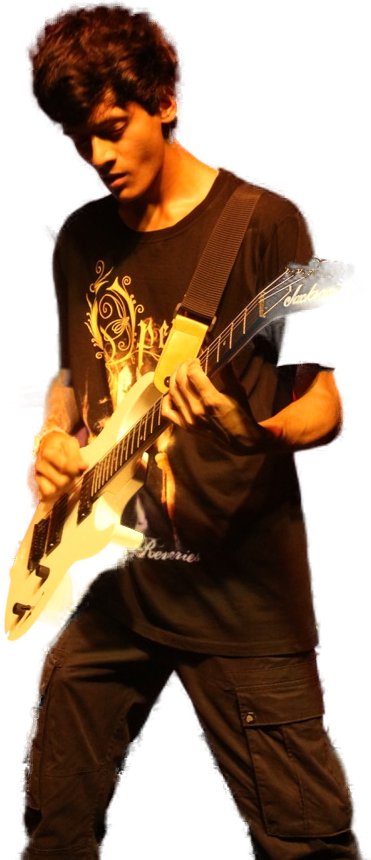
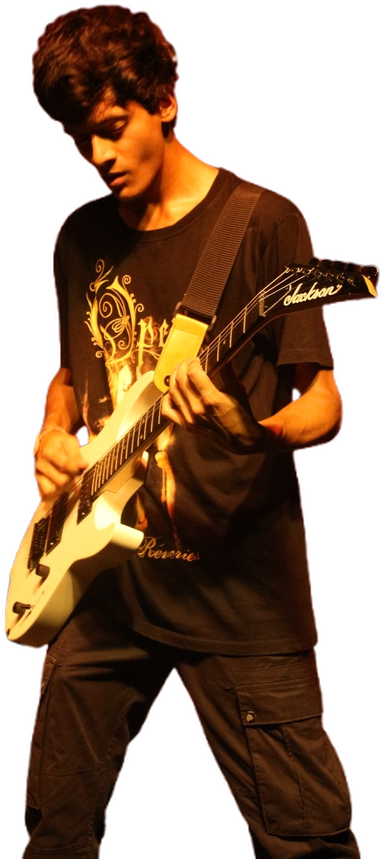
Use the supplied cut-outs, at full resolution, and re-proportion the line-up
The five hand-cut PNGs are much cleaner than the rembg ones, but arrived at
408x612 — roughly half the resolution the line-up needs on a retina display.
Four of them turned out to be exact downscales of photos already in the repo at
724x1086, so rather than use them directly their alpha is upscaled and applied
to the full-resolution original: the supplied mask, no resolution loss.

Partho's didn't match any supplied photo so his is used as given. His also ran
all the way to his feet while everyone else stops at the knee, which made
head-matching scale him to nearly 2x and dominate the row — cropped him to the
top 62% so his framing matches, then rescaled.

Re-measured every scale against the new cut-outs. Mathias, Arnold and Aditya
weren't re-supplied and keep their rembg cut-outs, but their scales moved too
since normalisation is relative.

Two structural fixes fell out of it:

- Slots now clip at the floor. Head-tops land on the slot's top edge, so
  anyone running longer than the others is cut at the floor instead of
  spilling over the name plates.
- Overlap is proportional to each figure's own width instead of a flat
  fraction of --fig. The flat version ate nearly half of a narrow figure like
  Arnold while barely touching a wide one like Harsh with his guitar out.

The new cut-outs include the full guitars, so they're wider — ROW_UNITS went
3.6 -> 4.1 and every figure shrank. Raised the overlap to 0.24 to buy some of
[…]

diff --git a/src/components/HeroLineup.tsx b/src/components/HeroLineup.tsx
@@ -9,18 +9,26 @@ import { useMediaQuery } from "@/hooks/useMediaQuery";
 
 const EASE = [0.16, 1, 0.3, 1] as const;
 
-/** How much of a neighbour each figure overlaps, as a fraction of --fig. */
-const LAP = 0.05;
+/**
+ * How much each figure overlaps the one before it, as a fraction of ITS OWN
+ * width. Proportional rather than a flat fraction of --fig: a flat overlap ate
+ * nearly half of a narrow figure like Arnold while barely touching a wide one
+ * like Harsh with his guitar out.
+ */
+const OVERLAP = 0.24;
+
+/** Each figure's width, in multiples of --fig. */
+const widthOf = (m: (typeof LINEUP)[number]) => m.lineup.scale * m.lineup.aspect;
 
 /**
- * Width of the whole row, in multiples of --fig. Each figure is
- * `--fig × scale` tall and `--fig × scale × aspect` wide, less the overlaps.
- * Derived rather than hardcoded so adding a member or swapping a photo for a
- * wider one can't silently push the end of the line-up off screen.
+ * Width of the whole row in multiples of --fig, so --fig can be capped by
+ * viewport width. Derived rather than hardcoded — adding a member or swapping
+ * in a wider photo can't silently push the end of the line-up off screen.
  */
-const ROW_UNITS =
-  LINEUP.reduce((n, m) => n + m.lineup.scale * m.lineup.aspect, 0) -
-  LAP * (LINEUP.length - 1);
+const ROW_UNITS = LINEUP.reduce(
+  (n, m, i) => n + widthOf(m) * (i === 0 ? 1 : 1 - OVERLAP),
+  0,
+);
 
 export default function HeroLineup() {
   const ref = useRef<HTMLElement>(null);
@@ -133,7 +141,7 @@ export default function HeroLineup() {
           by width as well as height to keep all eight on screen. Below lg the
           row scrolls sideways instead. */}
       <motion.div
-        className="relative z-10 mt-auto flex min-h-0 flex-1 items-end [--fig:36svh] [--lap:0px] sm:[--fig:42svh] lg:[--fig:min(52svh,var(--fig-w))] lg:[--lap:calc(var(--fig)*-0.05)]"
+        className="relative z-10 mt-auto flex min-h-0 flex-1 items-end [--fig:36svh] [--lapf:0] sm:[--fig:42svh] lg:[--fig:min(54svh,var(--fig-w))] lg:[--lapf:0.24]"
         style={{
           y: lineupY,
           opacity: fade,
@@ -164,7 +172,10 @@ export default function HeroLineup() {
                 // group rather than eight separate cut-outs; hovering lifts
                 // that member clear of their neighbours
                 style={{
-                  marginLeft: i === 0 ? undefined : "var(--lap)",
+                  marginLeft:
+                    i === 0
+                      ? undefined
+                      : `calc(var(--fig) * var(--lapf) * ${-widthOf(member)})`,
                   zIndex: lit ? 20 : LINEUP.length - i,
                 }}
                 initial={{ opacity: 0, y: 60 }}
@@ -181,8 +192,12 @@ export default function HeroLineup() {
                 >
                   {/* Fixed-height slot keeps every name plate on one line, while
                       the figure inside is sized and nudged individually. */}
+                  {/* Slot clips at the floor. Head-tops all land on the slot's
+                      top edge (because drop = scale − K), so anyone whose photo
+                      runs past the knee — Partho has feet — is cut off at the
+                      floor instead of spilling over the name plates. */}
                   <span
-                    className="relative block h-[var(--fig)]"
+                    className="relative block h-[var(--fig)] overflow-hidden"
                     style={{ width: `calc(var(--fig) * ${scale * aspect})` }}
                   >
                     {/* accent pool at their feet */}
@@ -217,9 +232,12 @@ export default function HeroLineup() {
                     </span>
                   </span>
 
-                  <span className="pointer-events-none block w-full px-1 pt-3 text-center">
+                  {/* Slots overlap and vary a lot in width, so the plate is set
+                      small and tight enough to sit inside the narrowest of them
+                      (Arnold's) without colliding with its neighbour. */}
+                  <span className="pointer-events-none block w-full px-0.5 pt-3 text-center">
                     <span
-                      className="label block truncate transition-colors duration-400"
+                      className="block truncate font-mono text-[0.5rem] font-medium tracking-[0.12em] uppercase transition-colors duration-400 sm:text-[0.5625rem] sm:tracking-[0.16em]"
                       style={{
                         color: lit
                           ? member.accent

diff --git a/src/data/band.ts b/src/data/band.ts
@@ -168,7 +168,7 @@ export const MEMBERS: Member[] = [
     accent: "#E11D2E",
     photo: "/photos/harsh-roy.jpg",
     cutout: "/cutouts/harsh-roy.png",
-    lineup: { scale: 1.02, drop: 0.03, aspect: 0.5347 },
+    lineup: { scale: 0.94, drop: -0.06, aspect: 0.8266 },
     gallery: [
       "/photos/gallery/harsh-roy/01.jpg",
       "/photos/gallery/harsh-roy/02.jpg",
@@ -210,7 +210,7 @@ export const MEMBERS: Member[] = [
     accent: "#F97316",
     photo: "/photos/partho-roy.jpg",
     cutout: "/cutouts/partho-roy.png",
-    lineup: { scale: 1.03, drop: 0.04, aspect: 0.3517 },
+    lineup: { scale: 1.18, drop: 0.18, aspect: 0.7766 },
     gallery: [
       "/photos/gallery/partho-roy/01.jpg",
       "/photos/gallery/partho-roy/02.jpg",
@@ -251,7 +251,7 @@ export const MEMBERS: Member[] = [
     accent: "#E11D2E",
     photo: "/photos/mathias-oundo.jpg",
     cutout: "/cutouts/mathias-oundo.png",
-    lineup: { scale: 0.93, drop: -0.06, aspect: 0.6629 },
+    lineup: { scale: 0.8, drop: -0.2, aspect: 0.6629 },
     gallery: [
       "/photos/gallery/mathias-oundo/01.jpg",
       "/photos/gallery/mathias-oundo/02.jpg",
@@ -292,7 +292,7 @@ export const MEMBERS: Member[] = [
     accent: "#22C55E",
     photo: "/photos/arnold-singh.jpg",
     cutout: "/cutouts/arnold-singh.png",
-    lineup: { scale: 0.94, drop: -0.05, aspect: 0.3766, nudge: 0.075 },
+    lineup: { scale: 0.82, drop: -0.18, aspect: 0.3766, nudge: 0.075 },
     gallery: [],
     tagline:
       "A decade of screams out of the North-East, and the voice that drives First and Final.",
@@ -327,7 +327,7 @@ export const MEMBERS: Member[] = [
     accent: "#F43F5E",
     photo: "/photos/riyan-gogoi.jpg",
     cutout: "/cutouts/riyan-gogoi.png",
-    lineup: { scale: 0.9, drop: -0.09, aspect: 0.5418 },
+    lineup: { scale: 0.9, drop: -0.1, aspect: 0.6677 },
     gallery: [
       "/photos/gallery/riyan-gogoi/01.jpg",
       "/photos/gallery/riyan-gogoi/02.jpg",
@@ -367,7 +367,7 @@ export const MEMBERS: Member[] = [
     accent: "#F59E0B",
     photo: "/photos/shubhra-ghosh.jpg",
     cutout: "/cutouts/shubhra-ghosh.png",
-    lineup: { scale: 1.0, drop: 0.01, aspect: 0.4314 },
+    lineup: { scale: 1.01, drop: 0.01, aspect: 0.447 },
     gallery: [
       "/photos/gallery/shubhra-ghosh/01.jpg",
       "/photos/gallery/shubhra-ghosh/02.jpg",
@@ -404,7 +404,7 @@ export const MEMBERS: Member[] = [
     accent: "#3B82F6",
     photo: "/photos/yuvraaj-rawat.jpg",
     cutout: "/cutouts/yuvraaj-rawat.png",
-    lineup: { scale: 0.79, drop: -0.2, aspect: 0.6287 },
+    lineup: { scale: 1.04, drop: 0.04, aspect: 0.7368 },
     gallery: [
       "/photos/gallery/yuvraaj-rawat/01.jpg",
       "/photos/gallery/yuvraaj-rawat/02.jpg",
@@ -448,7 +448,7 @@ export const MEMBERS: Member[] = [
     accent: "#8B5CF6",
     photo: "/photos/aditya-singh.jpg",
     cutout: "/cutouts/aditya-singh.png",
-    lineup: { scale: 0.65, drop: -0.34, aspect: 0.7689 },
+    lineup: { scale: 0.71, drop: -0.29, aspect: 0.7689 },
     gallery: [],
     tagline:
       "The youngest in the room, writing bass parts nobody asked for and everybody kept.",

diff --git a/README.md b/README.md
@@ -79,11 +79,33 @@ The band photographs are placed by what they actually show, so none of them repe
 | `public/media-kit/…pdf` | the full kit, linked from booking |
 | `band members pics/`, `full band pics/`, `media-kit/` | originals — not served, not committed |
 
-### Regenerating the cut-outs
+### Where the cut-outs came from
 
-The line-up needs transparent PNGs. Higgsfield's `remove_background` was the plan but
-the account has no credits, so this uses [rembg](https://github.com/danielgatis/rembg)
-locally with the `u2net_human_seg` model — free, offline, repeatable.
+Five of them (Harsh, Partho, Riyan, Shubhra, Yuvraaj) were supplied hand-cut in
+`bg removed pics/`. Those arrived at 408×612, which is only about half the resolution
+the line-up needs on a retina display — but four turned out to be exact downscales of
+photos already in `band members pics/` at 724×1086. So rather than use them directly,
+**their alpha channel is upscaled and applied to the full-resolution original**: the
+supplied mask, at full resolution.
+
+```python
+mask = Image.open(supplied_png).convert('RGBA').split()[3]
+src  = Image.open(full_res_original).convert('RGB')
+src.putalpha(mask.resize(src.size, Image.LANCZOS))
+```
+
+Partho's didn't match any supplied photo, so his is used as given. His also showed his
+full body down to the feet while everyone else stops at the knee — which made
+head-matching scale him to nearly 2× and dominate the row — so he is **cropped to the
+top 62%** to match the others' framing.
+
+Mathias, Arnold and Aditya were never re-supplied and still use the rembg cut-outs below.
+
+### Regenerating a cut-out from scratch
+
+Higgsfield's `remove_background` was the plan but the account has no credits, so this
+uses [rembg](https://github.com/danielgatis/rembg) locally with the `u2net_human_seg`
+model — free, offline, repeatable.
 
 ```bash
 python3 -m venv /tmp/rembg-venv
@@ -161,10 +183,20 @@ constantly on stage lighting (Arnold's best "face" box landed on his shoulder), 
 finding the shoulder line from the alpha mask breaks on raised arms and big hair. Eyes
 on a side-by-side render is the reliable method here.
 
-The bottom 20% of each figure is masked to a fade so mismatched crops dissolve into the
-dark instead of ending on a hard cut. `--fig` is capped by viewport width as well as
-height, using `ROW_UNITS` computed from the data in `HeroLineup.tsx` — so adding a
-member or swapping in a wider photo can't silently push the end of the row off screen.
+Each slot **clips at the floor**, so anyone whose photo runs longer than the others
+(Partho) is cut there rather than spilling over the name plates. The bottom 20% of each
+figure is masked to a fade so the shorter crops dissolve into the dark instead of ending
+on a hard line.
+
+**Overlap is proportional to each figure's own width** (`OVERLAP` in `HeroLineup.tsx`),
+not a flat fraction of `--fig`. A flat overlap ate nearly half of a narrow figure like
+Arnold while barely touching a wide one like Harsh with his guitar out. Note that wider
+cut-outs cost height: the newer ones include the full guitars, which pushed `ROW_UNITS`
+from 3.6 to 4.1 and shrank every figure — more overlap buys some of it back.
+
+`--fig` is capped by viewport width as well as height via `ROW_UNITS`, computed from the
+data — so adding a member or swapping in a wider photo can't silently push the end of
+the row off screen.
 
 ### The hero video
 
